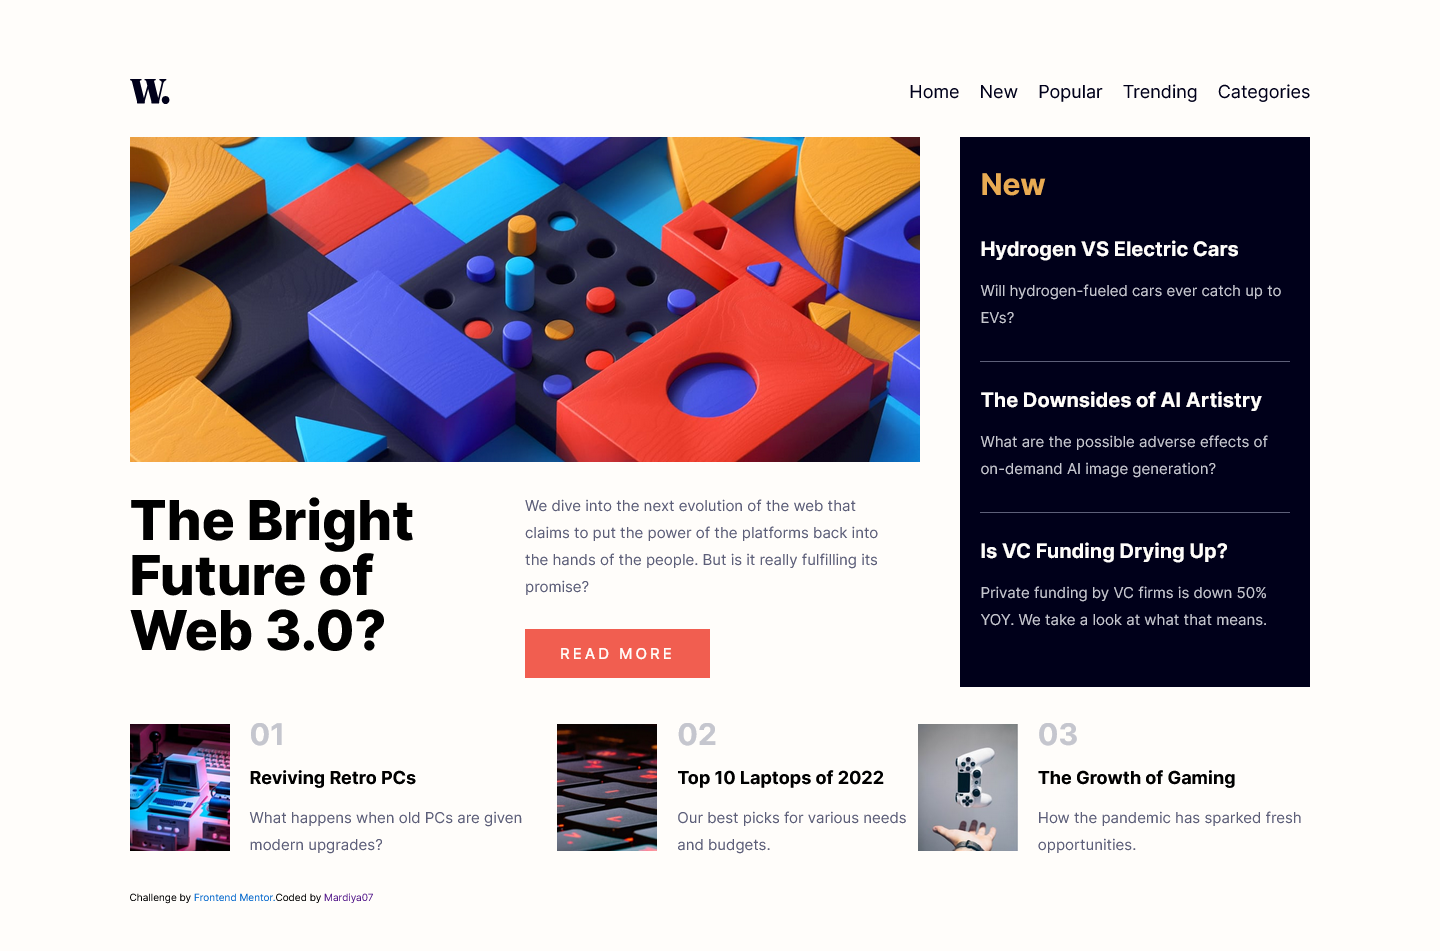
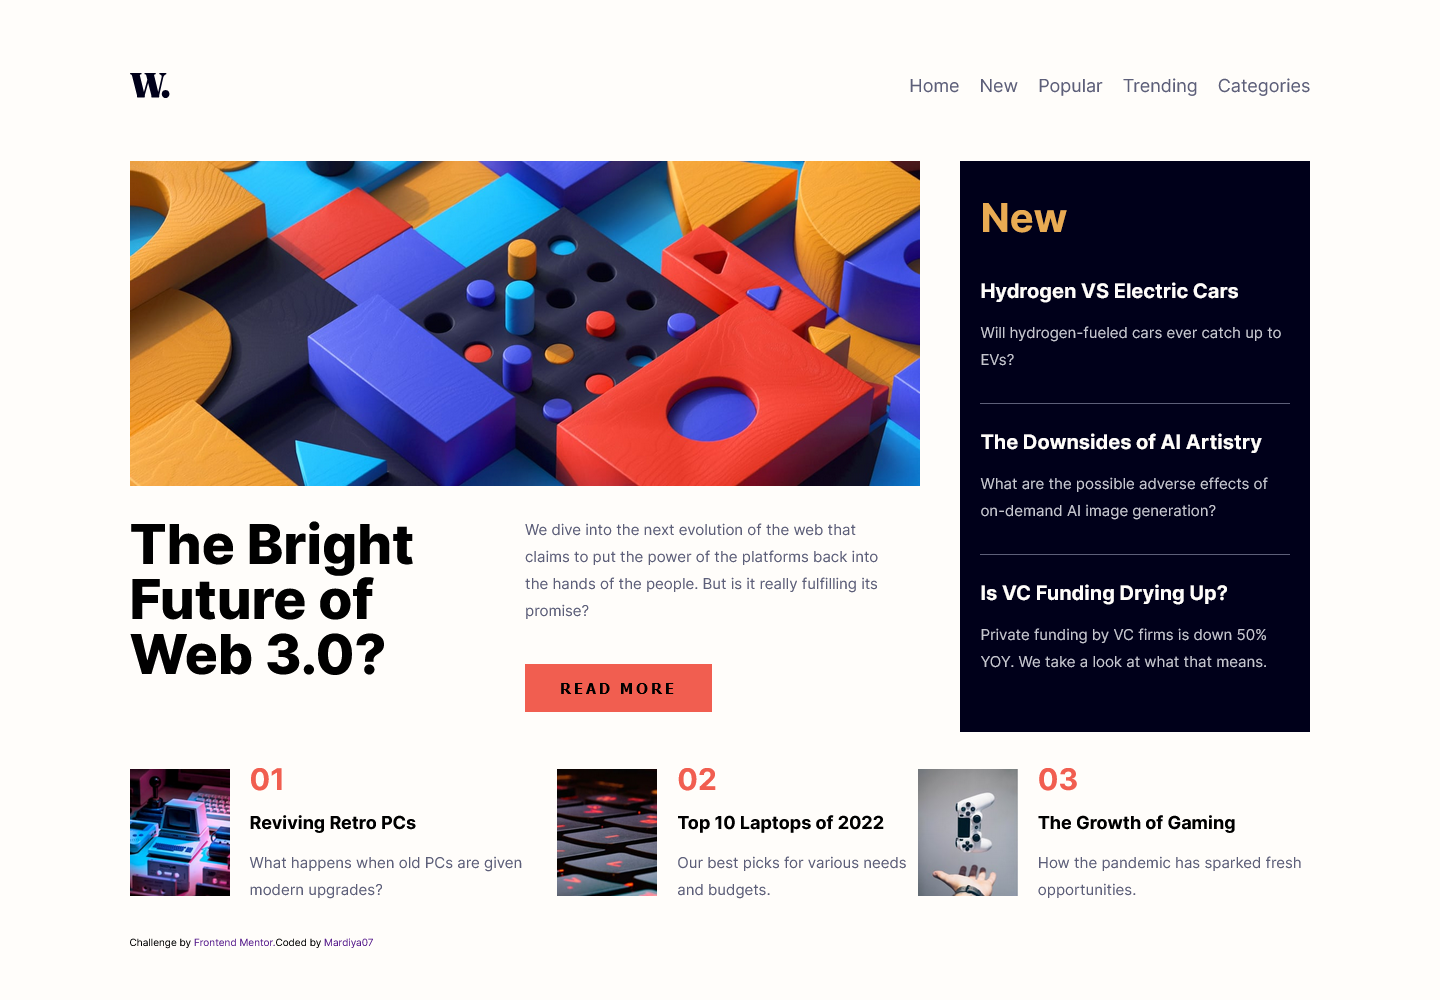
Changes to reflect updated project designs.

diff --git a/src/App.css b/src/App.css
@@ -79,7 +79,8 @@ main {
   align-items: center;
   position: relative;
   background-color: var(--Off-white);
-  padding: 3rem 0;
+  padding: 2rem 0 6rem 0;
+  width: 100%;
   /* outline: 1px solid red; */
 }
 .navlistwrap {
@@ -108,7 +109,7 @@ main {
 
 .navlistItem a {
   font-size: 1.8rem;
-  color: var(--Very-dark-blue);
+  color: var(--Dark-grayish-blue);
 }
 
 .navlistItem a:hover {
@@ -147,10 +148,12 @@ main {
   text-transform: uppercase;
   letter-spacing: 0.3rem;
   font-weight: 500;
-  color: var(--Off-white);
+  color: var(--Very-dark-blueC);
   background-color: var(--Soft-red);
   padding: 1.5rem 3.5rem;
   font-size: 1.5rem;
+  font-weight: bold;
+  border: none;
 }
 .ctaButton:hover {
   background-color: var(--Very-dark-blue);
@@ -214,7 +217,7 @@ main {
 }
 .rankNumber {
   font-size: 3rem;
-  color: var(--Grayish-blue);
+  color: var(--Soft-red);
 }
 .newsTitle {
   font-size: 1.8rem;
@@ -300,5 +303,8 @@ main {
   .heroTitle {
     flex: 1;
     font-size: 5.5rem;
+  }
+  .newsColumn-title {
+    font-size: 4rem;
   }
 }

diff --git a/public/index.html b/public/index.html
@@ -2,7 +2,7 @@
 <html lang="en">
   <head>
     <meta charset="utf-8" />
-    <link rel="icon" href="%PUBLIC_URL%/favicon.ico" />
+    <link rel="icon" href="%PUBLIC_URL%/favicon-32x32.png" />
     <meta name="viewport" content="width=device-width, initial-scale=1" />
     <meta name="theme-color" content="#000000" />
     <meta
@@ -24,7 +24,7 @@
       work correctly both with client-side routing and a non-root public URL.
       Learn how to configure a non-root public URL by running `npm run build`.
     -->
-    <title>React App</title>
+    <title>News Homepage</title>
   </head>
   <body>
     <noscript>You need to enable JavaScript to run this app.</noscript>

diff --git a/src/components/Hero.js b/src/components/Hero.js
@@ -16,9 +16,9 @@ function Hero() {
         <h1 className="heroTitle">{heroText.title}</h1>
         <div className="heroText-Wrapper">
           <p className="heroText-overview">{heroText.overview}</p>
-          <a href="##" className="ctaButton">
+          <button className="ctaButton" type="button">
             {heroText.cta}
-          </a>
+          </button>
         </div>
       </div>
     </div>

diff --git a/src/components/Footer.js b/src/components/Footer.js
@@ -2,7 +2,7 @@ import React from "react";
 
 function Footer() {
   return (
-    <footer className="attribution" role="contentinfo">
+    <footer className="attribution">
       Challenge by{" "}
       <a href="https://www.frontendmentor.io/challenges/news-homepage-H6SWTa1MFl">
         Frontend Mentor.
